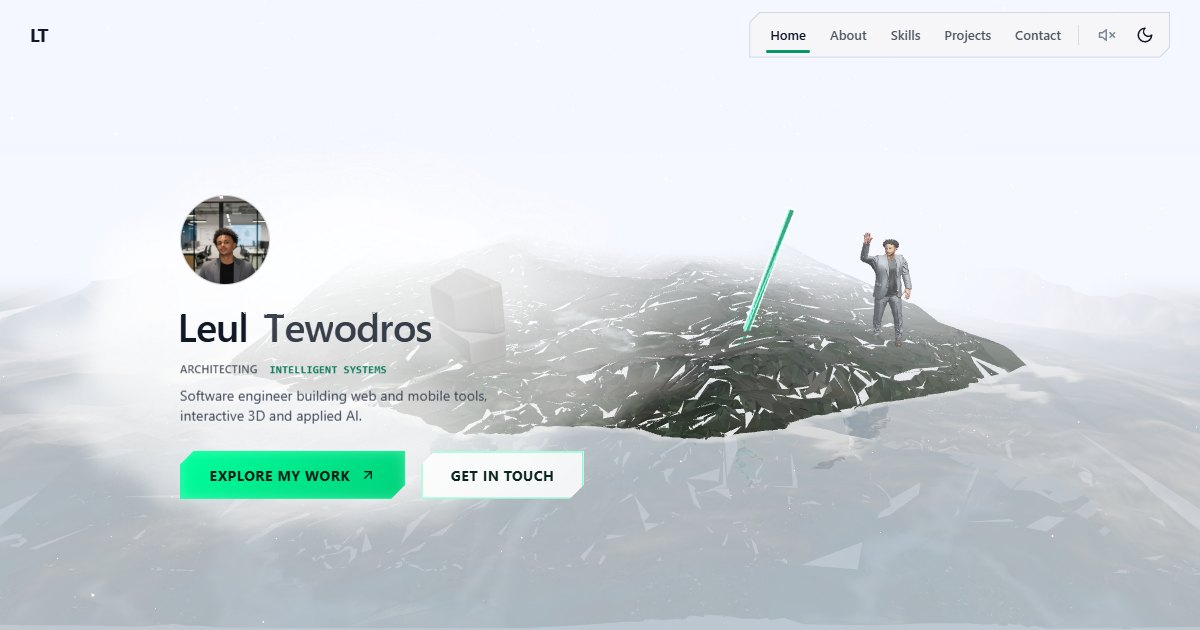
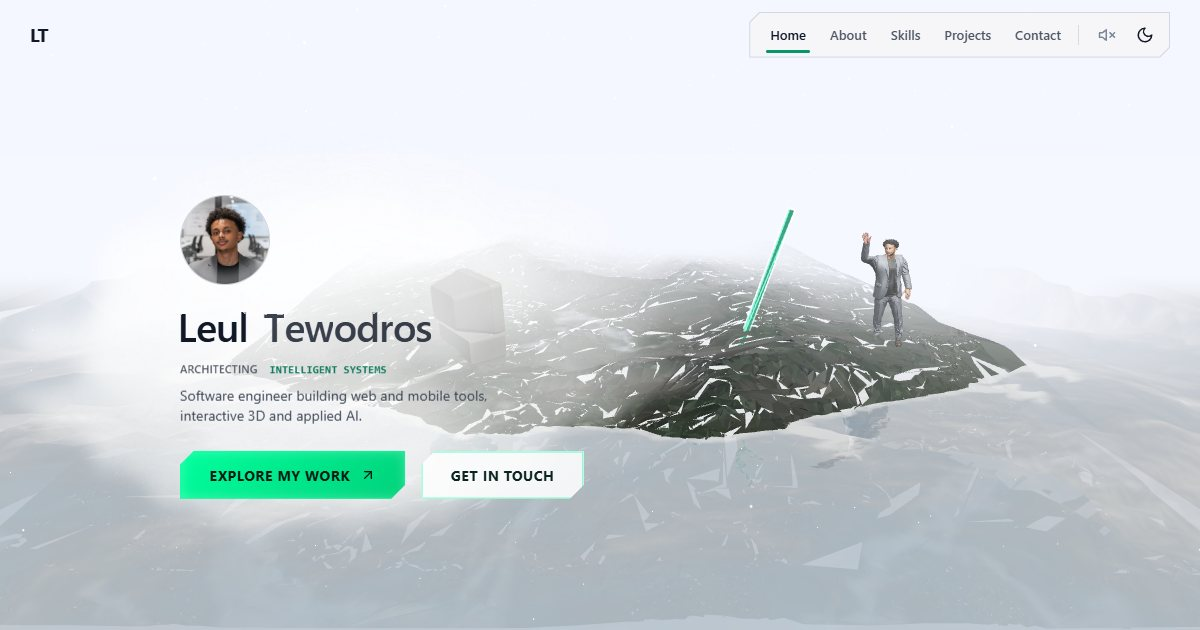
feat(brand): art-direct the hero portrait to the icy world [skip ci]
At 120px the full office photo left the face a small figure in a busy room.
The hero now uses a head-and-shoulders crop of the same photo with a mild cool
balance, the office desaturated away from the subject and a snow-tone mist at
the rim; skin is left untouched. 19.5KB instead of 41.6KB on the critical path.

The JSON-LD Person image keeps the full original. The manifest test now checks
each critical asset exists at its declared size, since the loader weights
progress by those bytes. OG card recaptured from the running hero.

Changed region(s): [[0.1233, 0.3016, 0.2467, 0.4524]]

diff --git a/src/components/sections/Home/Home.tsx b/src/components/sections/Home/Home.tsx
@@ -900,8 +900,8 @@ export function Home({ onNavigate, theme = 'light', flat = false, introReady = t
             <div className={styles.imagePlaceholder}>
               <span className={styles.circleText}>L</span>
               <img 
-                src="/images/leul-profile.webp" 
-                alt="Leul" 
+                src="/images/leul-portrait.webp" 
+                alt="Portrait of Leul Tewodros" 
                 className={styles.circleImage}
               />
             </div>
@@ -982,7 +982,7 @@ export function Home({ onNavigate, theme = 'light', flat = false, introReady = t
           delay: 0.2
         }}
       >
-        <img src="/images/leul-profile.webp" alt="Leul" />
+        <img src="/images/leul-portrait.webp" alt="" />
       </motion.div>
 
       {/* Last cue: the affordance invites the next move, so it must not compete

diff --git a/src/lib/assets/criticalAssets.test.ts b/src/lib/assets/criticalAssets.test.ts
@@ -1,4 +1,6 @@
 import { describe, it, expect, vi, afterEach } from 'vitest';
+import { statSync } from 'node:fs';
+import { resolve } from 'node:path';
 import * as THREE from 'three';
 import { StrictMode, useEffect } from 'react';
 import { act, renderHook } from '@testing-library/react';
@@ -67,10 +69,11 @@ afterEach(() => {
 });
 
 describe('the manifest', () => {
-  it('names only files that exist under public/', () => {
+  it('names only files that exist under public/, at their real size', () => {
+    // Progress is weighted by these byte counts, so a stale one skews the loader.
     for (const asset of CRITICAL_ASSETS) {
       expect(asset.url.startsWith('/')).toBe(true);
-      expect(asset.bytes).toBeGreaterThan(0);
+      expect(statSync(resolve('public', asset.url.slice(1))).size).toBe(asset.bytes);
     }
   });
 

diff --git a/src/lib/assets/criticalAssets.ts b/src/lib/assets/criticalAssets.ts
@@ -58,7 +58,7 @@ export const CRITICAL_ASSETS: readonly CriticalAsset[] = [
   { url: '/models/me-animated-lite.glb', bytes: 847_188, kind: 'model' },
   { url: '/images/waternormals.jpg', bytes: 248_813, kind: 'texture' },
   { url: '/images/shore-field.png', bytes: terrainBake.shore.bytes, kind: 'texture' },
-  { url: '/images/leul-profile.webp', bytes: 41_616, kind: 'media' },
+  { url: '/images/leul-portrait.webp', bytes: 19_544, kind: 'media' },
 ];
 
 /** The models among the critical assets. */
